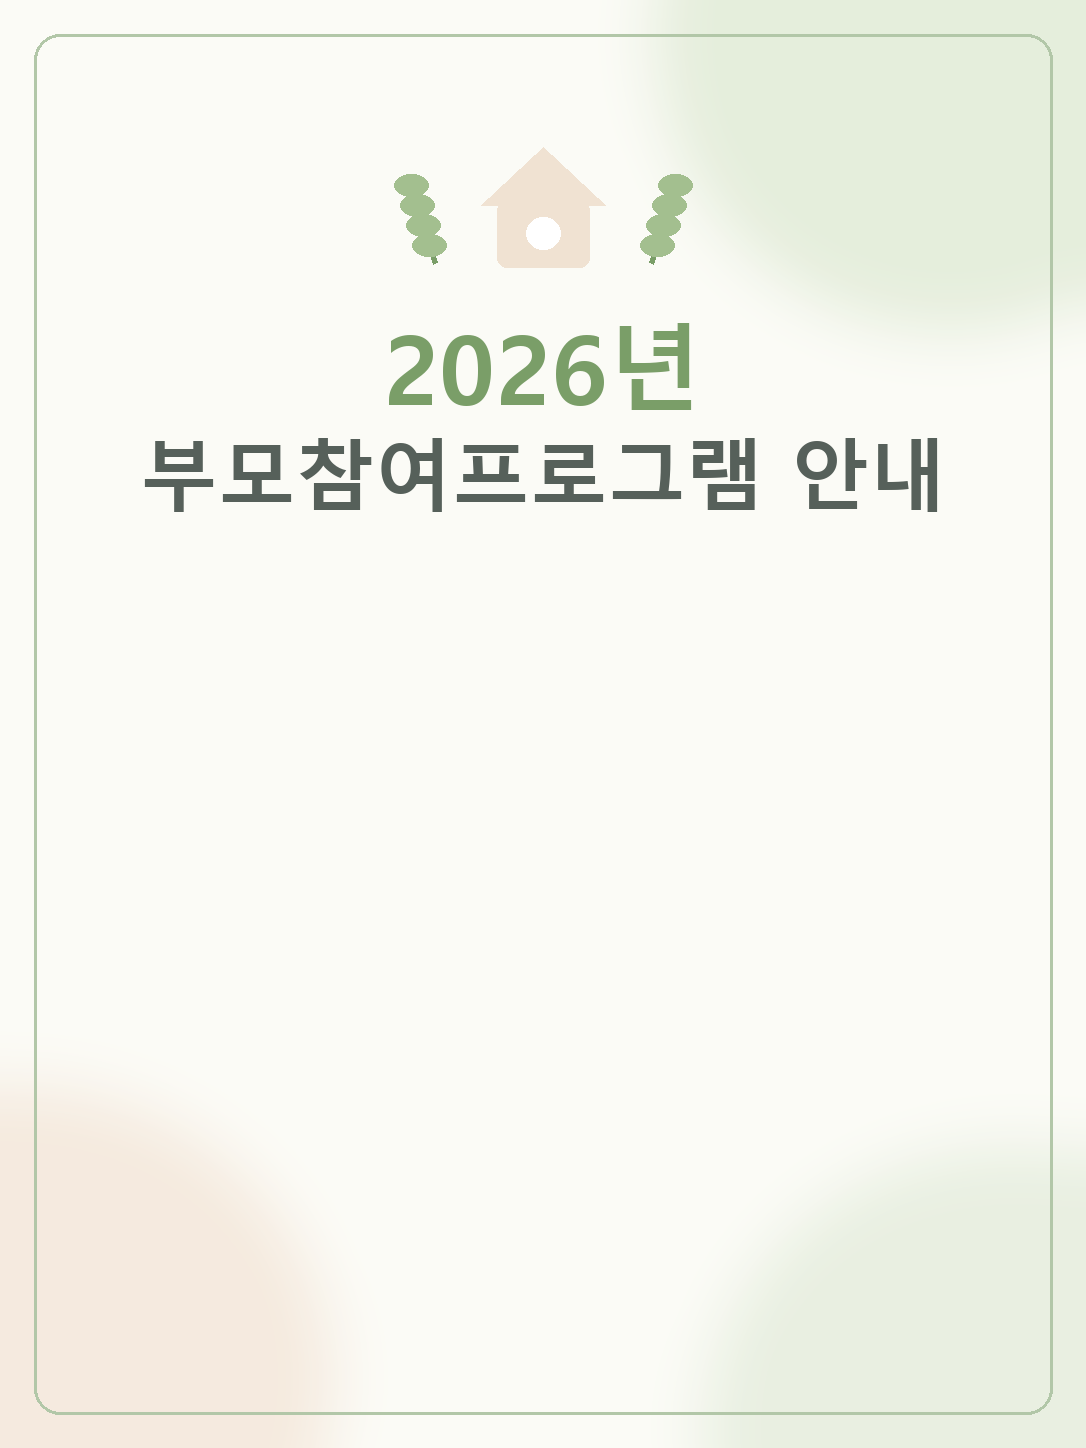
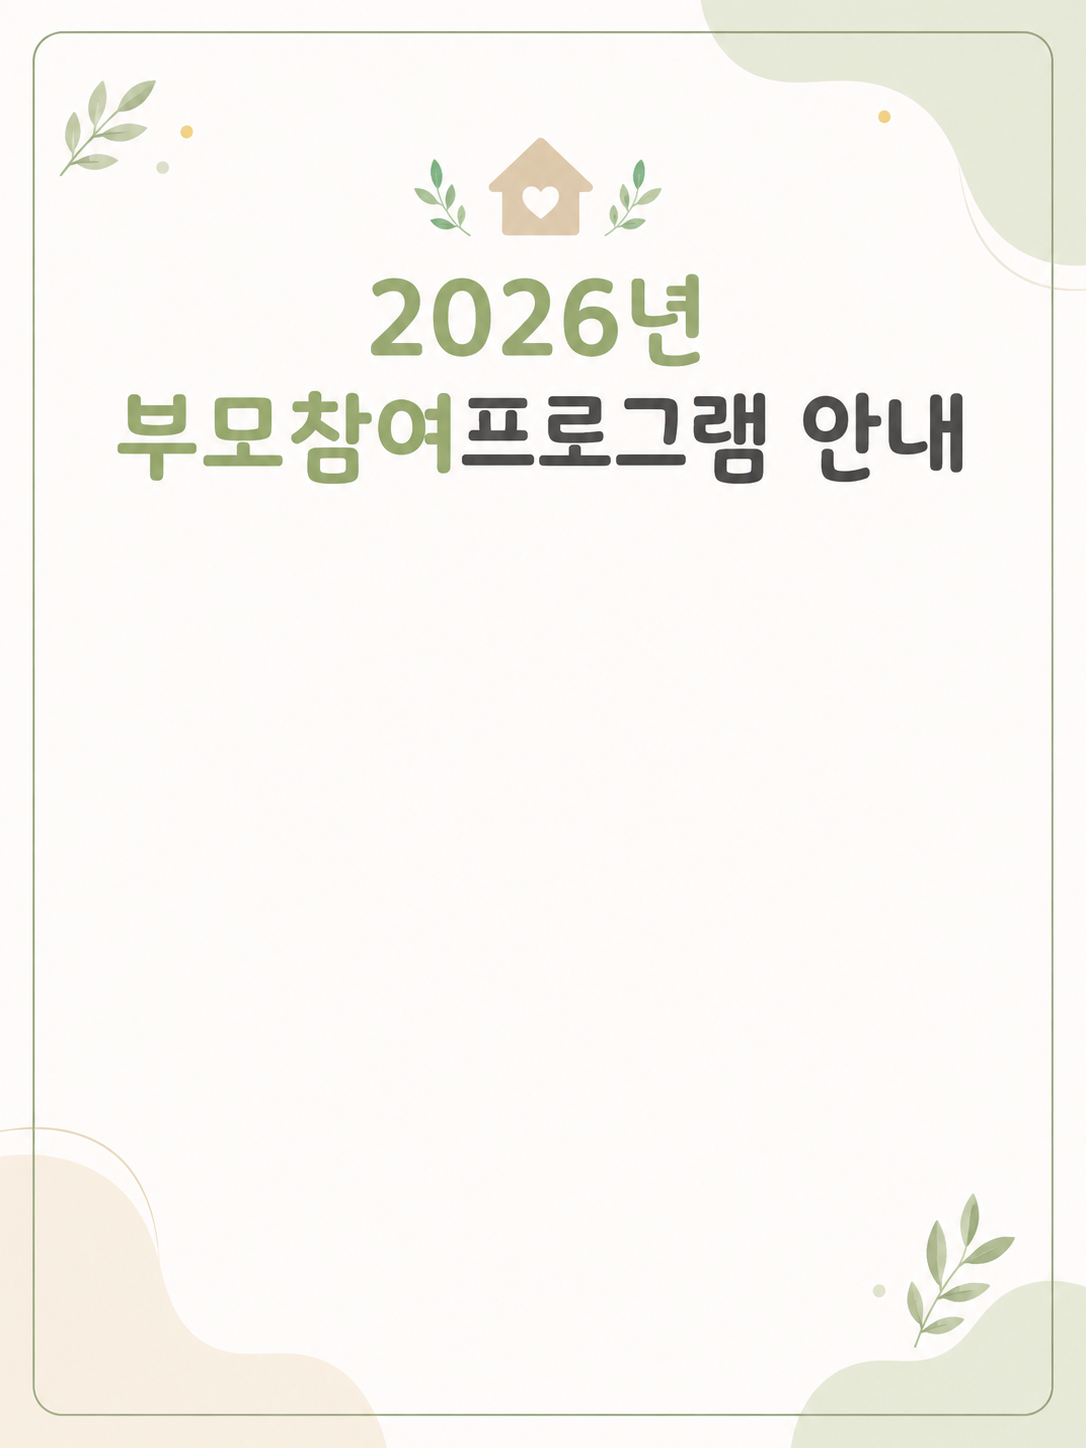
부모참여 공지문 기본 서식을 원장님 그림으로 교체
- public/program-notice-bg.png: 원장님이 주신 2026년 부모참여프로그램 안내 서식
- 아래 여백 기본값 12% → 22% (그림 아래 잎사귀 장식과 글자가 겹치지 않게)
- 예전에 저장한 달은 불러올 때 새 여백으로 자동 보정 (upgradeMonth)

diff --git a/app/ProgramWizard.js b/app/ProgramWizard.js
@@ -8,7 +8,7 @@ import {
   DEFAULT_NOTICE_BG, DEFAULT_TOP, DEFAULT_BOTTOM,
   emptyData, emptyMonth, monthList, monthLabel, monthOf, planOf, defaultPlan,
   whenText, attendText, totalCount, flowList,
-  monthHasContent, monthDone, noticeDone, chosenMonths, noticeBlock,
+  monthHasContent, monthDone, noticeDone, chosenMonths, noticeBlock, upgradeMonth,
   buildProgramDoc, buildOneMonthDoc, toHwpxBlocks,
 } from '../lib/programDoc';
 import Block from './NewBlocks';
@@ -43,7 +43,9 @@ export default function ProgramWizard({ onBack }) {
       if (!alive) return;
       setBasic(b || {});
       if (saved?.plan) {
-        setData({ ...emptyData(), ...saved });
+        // 예전에 저장한 달은 서식 기본값(아래 여백 등)이 옛 값일 수 있어 새 값으로 올려 준다
+        const months = Object.fromEntries(Object.entries(saved.months || {}).map(([k, v]) => [k, upgradeMonth(v)]));
+        setData({ ...emptyData(), ...saved, months });
         if (saved.view) setView(saved.view);
       }
       loadedRef.current = true;

diff --git a/lib/programDoc.js b/lib/programDoc.js
@@ -51,7 +51,16 @@ export function whenText(x) {
 // 공지문 서식 그림 기본값 (원장님이 주신 그림. 없으면 글자만 있는 공지문으로 나온다)
 export const DEFAULT_NOTICE_BG = '/program-notice-bg.png';
 export const DEFAULT_TOP = 38;
-export const DEFAULT_BOTTOM = 12;
+// 서식 그림 아래쪽(약 79% 아래)에 잎사귀·색 덩어리 장식이 있어 글이 겹치지 않도록 여백을 둔다
+export const DEFAULT_BOTTOM = 22;
+// 예전에 기본값이던 아래 여백 — 저장해 둔 달이 있으면 새 기본값으로 자동으로 올려 준다
+const OLD_BOTTOMS = [12];
+
+export function upgradeMonth(x) {
+  if (!x) return x;
+  if (x.bg === DEFAULT_NOTICE_BG && OLD_BOTTOMS.includes(x.bottom)) return { ...x, bottom: DEFAULT_BOTTOM };
+  return x;
+}
 
 export const emptyMonth = () => ({
   date: '', time: '', place: '어린이집 보육실',
